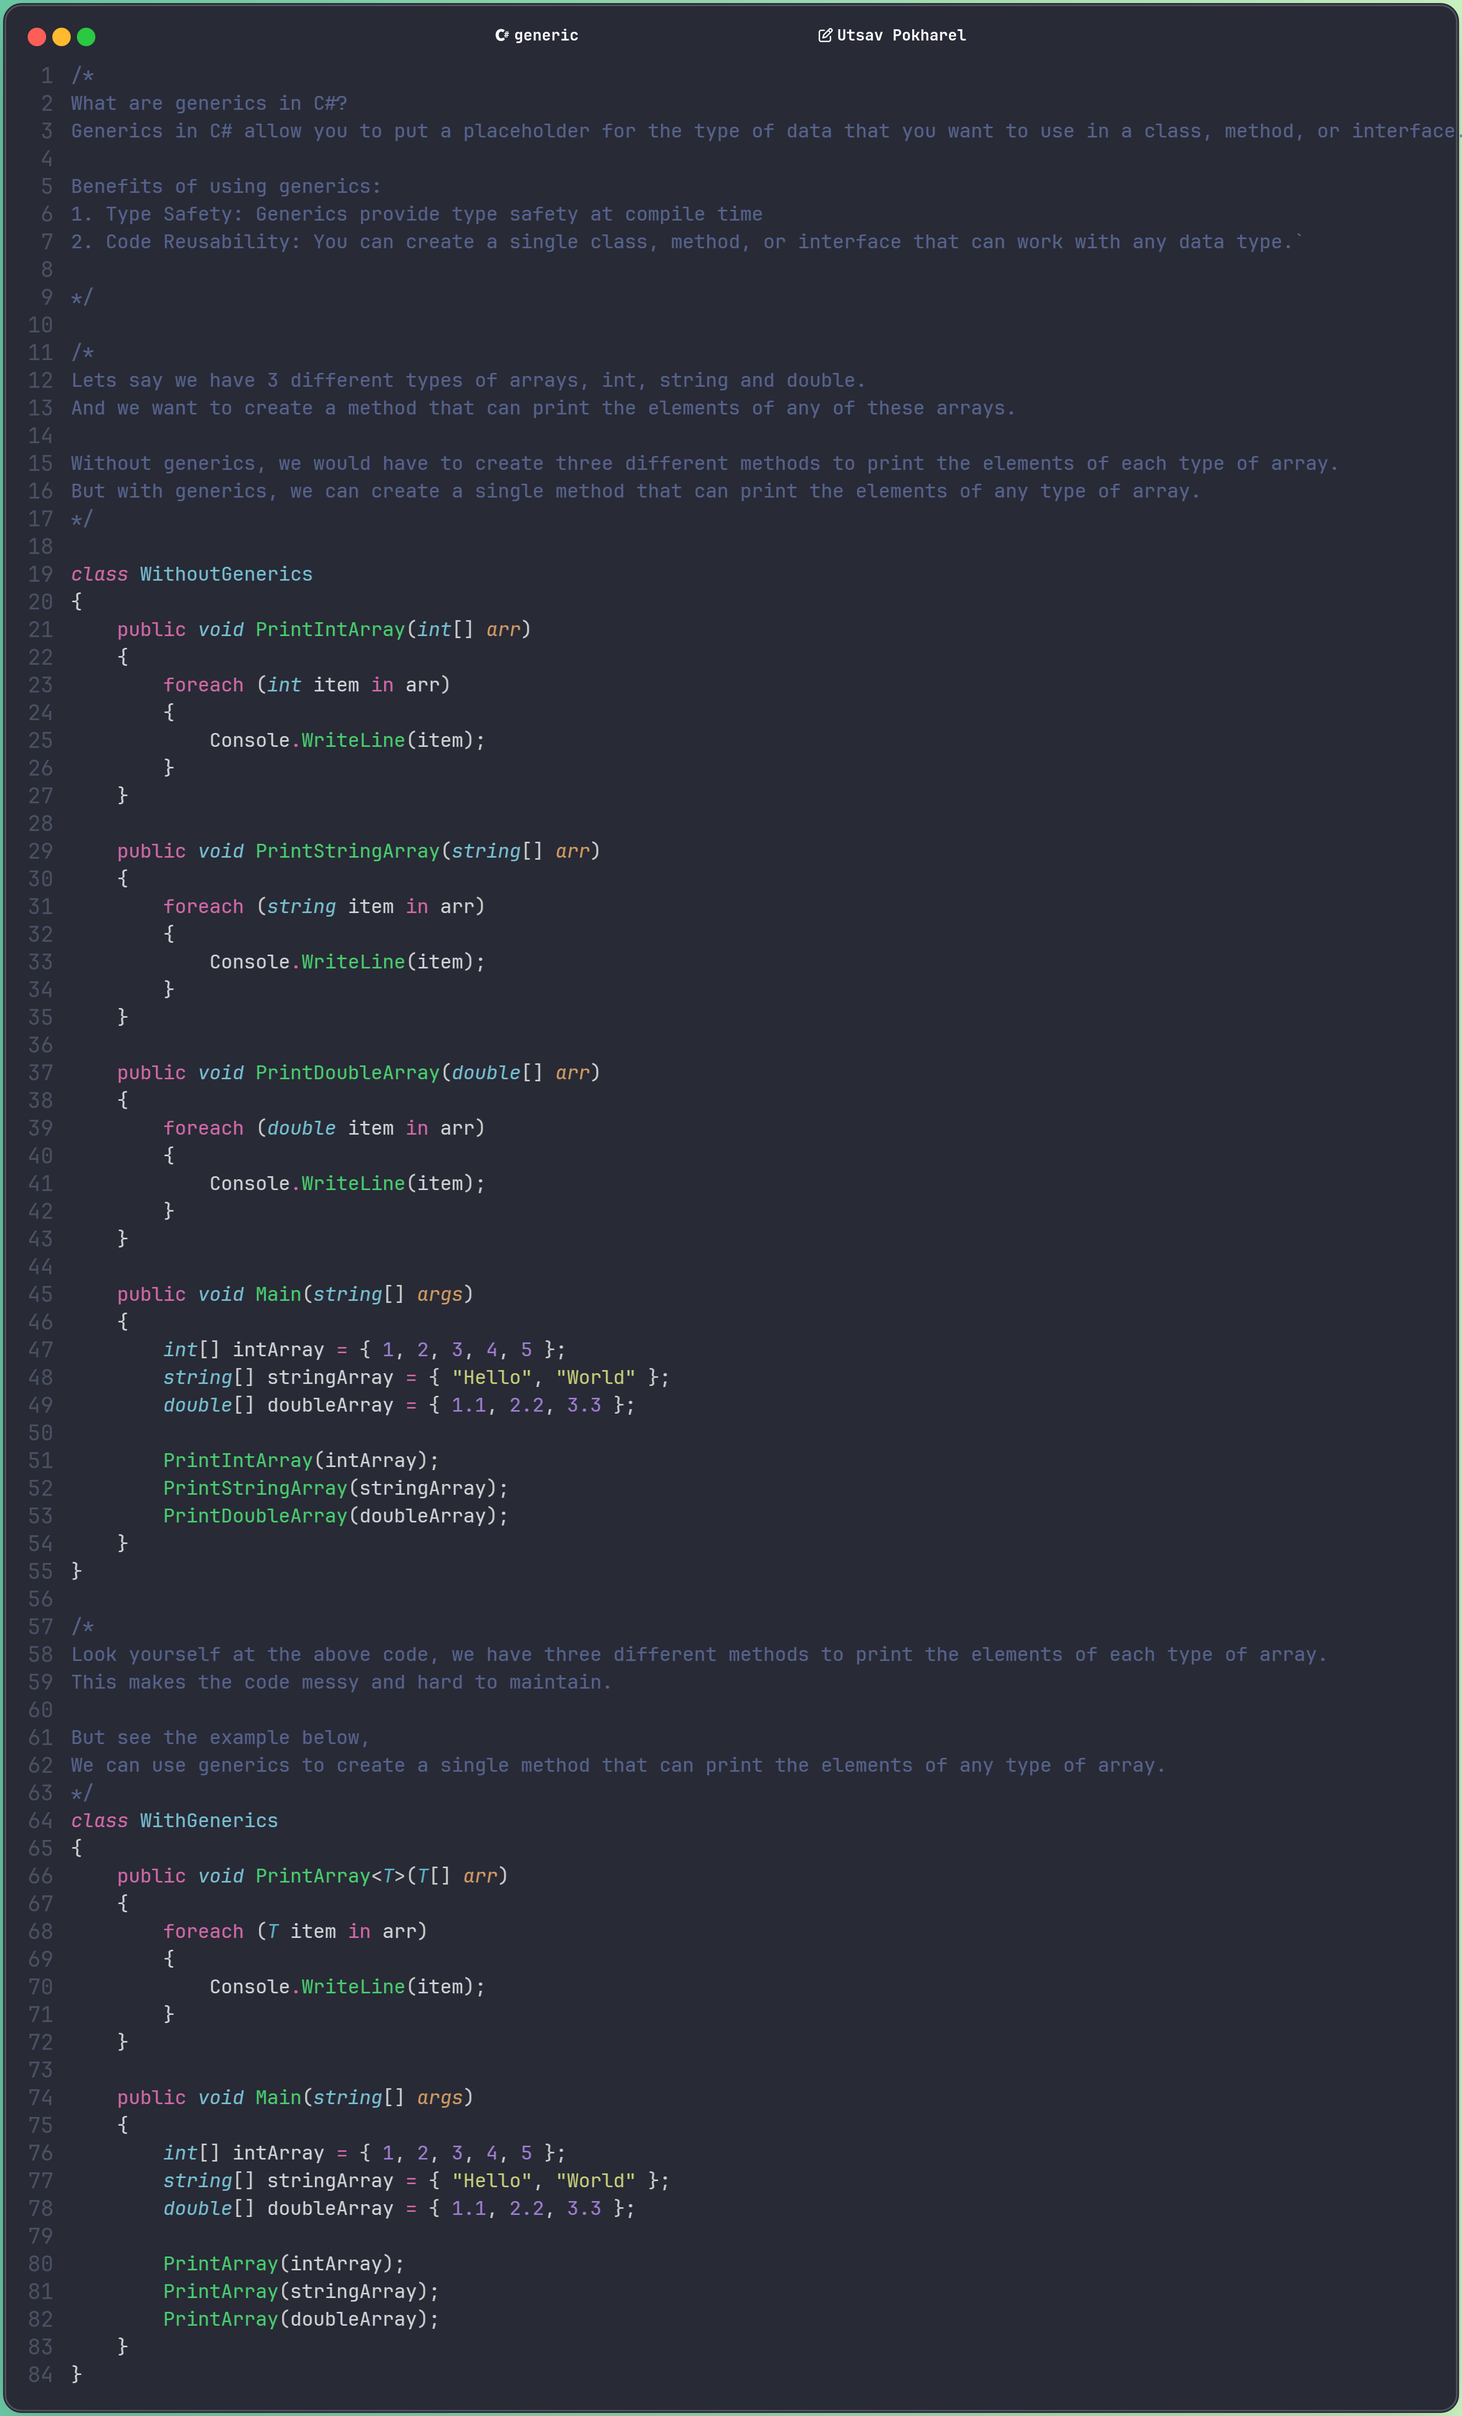
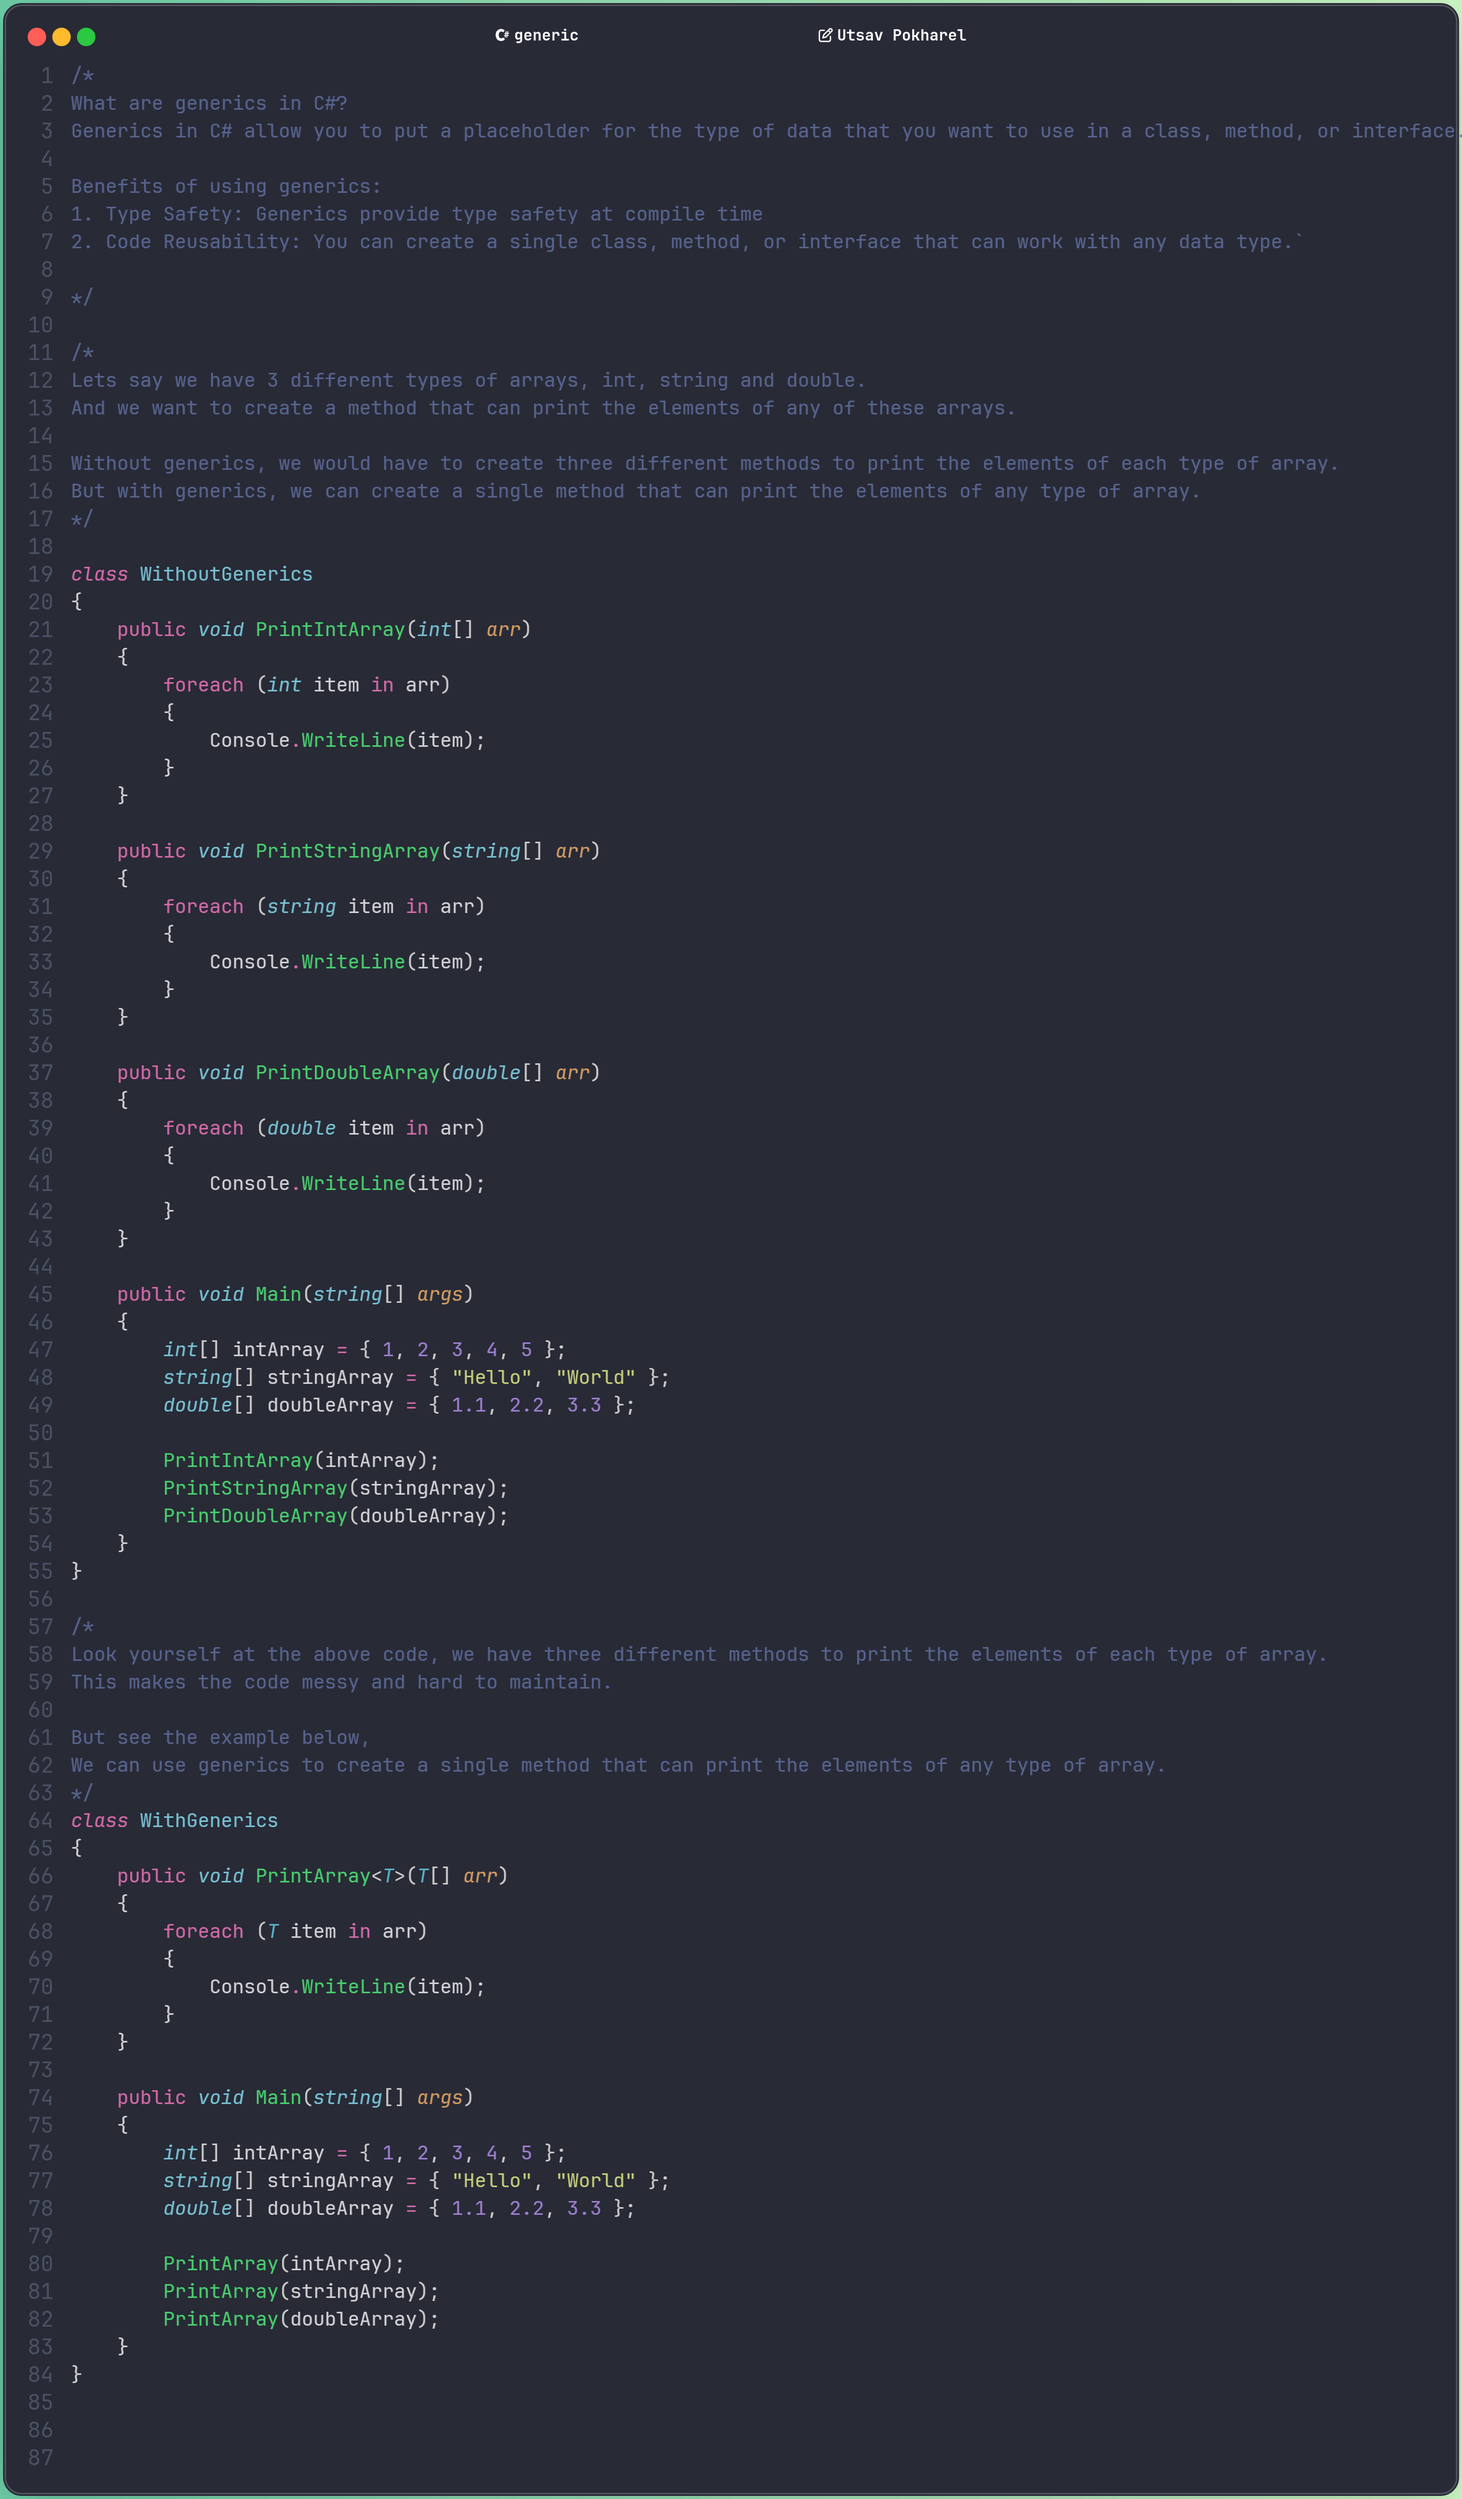
Added params types

diff --git a/basics/types-of-params.cs b/basics/types-of-params.cs
@@ -1,0 +1,61 @@
+/*
+
+Paramaters can be defined as the variables that are used to pass data into methods. 
+They allow us to provide input to methods.
+
+
+We can pass the paramaters in 2 basic ways:
+1. By Value (default)
+2. By Reference (using ref keyword)
+
+In C#, there are 4 main types of parameters:
+
+    1. Value Parameters (pass by value)
+       - A COPY of the value is passed
+       - Changes inside method DO NOT affect original variable
+
+    2. Reference Parameters (ref keyword, pass by reference)
+       - ORIGINAL variable is passed (no copy)
+       - Changes inside method WILL affect original variable
+       - Must be initialized before passing
+
+    3. Output Parameters (out, an upgrade to ref)
+       - Used to RETURN values from method
+       - No need to initialize before passing
+       - MUST assign value inside method
+
+    4. Params Parameters (params, unknown number of arguments)
+       - Allows passing VARIABLE number of arguments
+       - Treated as an ARRAY inside the method
+*/
+class Program
+{
+    static void Main(string[] args)
+    {
+        int a = 5;
+        int b = 10;
+
+        Console.WriteLine("Before ::");
+        Console.WriteLine($"a = {a}"); // Output: 5
+        Console.WriteLine($"b = {b}"); // Output: 10
+
+
+        ChangeByValue(a);
+        ChangeByRef(ref b);
+
+        Console.WriteLine("After ::");
+        Console.WriteLine($"a = {a}"); // Output: 5 (unchanged)
+        Console.WriteLine($"b = {b}"); // Output: 20 (changed by ref)
+    }
+
+    static void ChangeByValue(int x)
+    {
+        x = x + 10; // modifies only local copy
+    }
+
+    static void ChangeByRef(ref int x)
+    {
+        x = x + 10;
+    }
+
+}

diff --git a/generic.cs b/generic.cs
@@ -82,3 +82,6 @@ class WithGenerics
         PrintArray(doubleArray);
     }
 }
+
+
+
